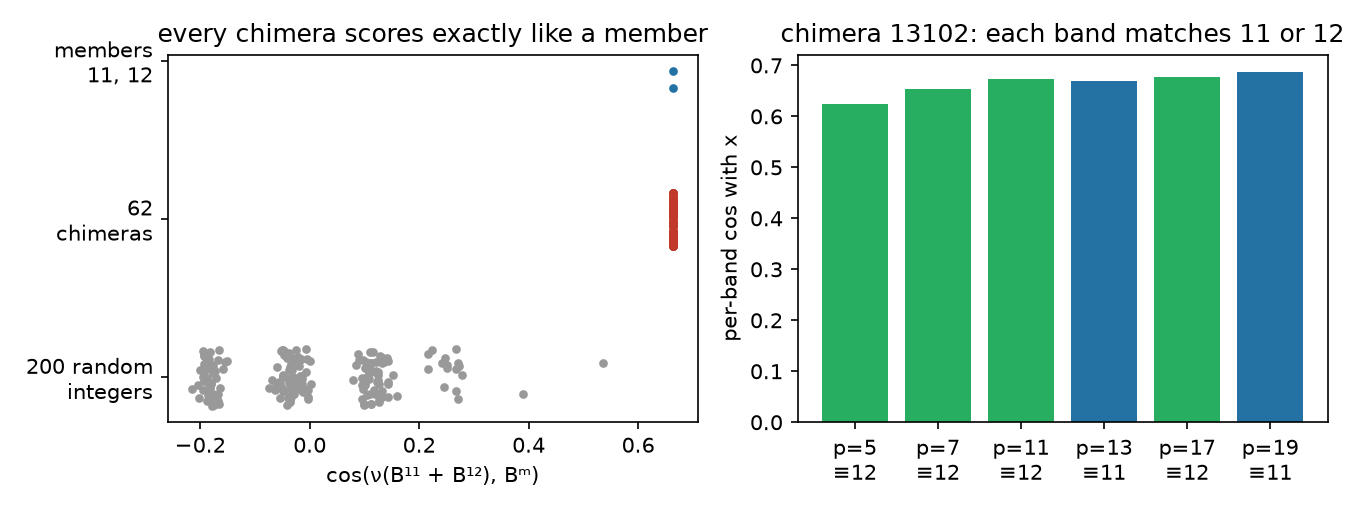
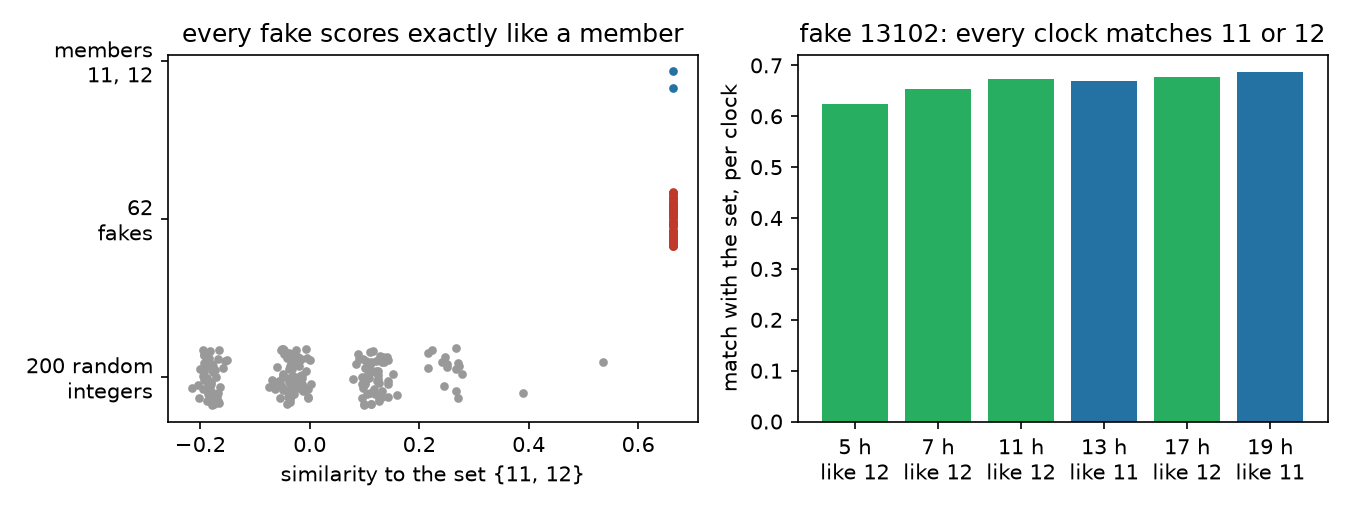
Notebook and paper: plainer concepts, honest Bayes framing
Notebook: a why-care paragraph and three findings up front; binding,
bundling and cleanup explained by analogy before notation; residue
integers explained as clocks, chimeras as fakes stitched from real
members; D, sigma and beta defined; CEK explained; Hopfield summary
figure instead of the 30-panel grid; F3 relabelled.
Both: the Bayesian query is a semantics check (Furlong & Eliasmith;
Dewulf et al. already do inference this way); run-time vs call-time
choice credited to Hussmann (1993).

diff --git a/scripts/paper_f3.py b/scripts/paper_f3.py
@@ -72,15 +72,15 @@ for row, (vals, c, name) in enumerate(((s_rand, "#999999", "200 random integers"
                                        (s_chim, "#c0392b", f"{len(chimeras)} chimeras"),
                                        (s_true, "#2471a3", "members 11, 12"))):
     a1.scatter(vals, row + jit.uniform(-0.18, 0.18, len(vals)), s=10, color=c)
-a1.set_yticks([0, 1, 2], ["200 random\nintegers", f"{len(chimeras)}\nchimeras",
+a1.set_yticks([0, 1, 2], ["200 random\nintegers", f"{len(chimeras)}\nfakes",
                           "members\n11, 12"])
-a1.set_xlabel("cos(ν(B¹¹ + B¹²), Bᵐ)")
-a1.set_title("every chimera scores exactly like a member")
+a1.set_xlabel("similarity to the set {11, 12}")
+a1.set_title("every fake scores exactly like a member")
 a2.bar(range(len(moduli)), band_cos,
        color=["#2471a3" if w == "11" else "#27ae60" for w in which])
-a2.set_xticks(range(len(moduli)), [f"p={p}\n≡{w}" for p, w in zip(moduli, which)])
-a2.set_ylabel("per-band cos with x")
-a2.set_title(f"chimera {ex}: each band matches 11 or 12")
+a2.set_xticks(range(len(moduli)), [f"{p} h\nlike {w}" for p, w in zip(moduli, which)])
+a2.set_ylabel("match with the set, per clock")
+a2.set_title(f"fake {ex}: every clock matches 11 or 12")
 fig.tight_layout()
 fig.savefig("figures/paper-f3-chimeras.png", dpi=150)
 print("wrote figures/paper-f3-chimeras.png", file=sys.stderr)

diff --git a/paper/draft.md b/paper/draft.md
@@ -25,11 +25,12 @@ modes that the algebra hides, and we fix each one.
 
 **Superposition programming.** A value may be a weighted sum of *worlds*,
 and the program computes on all of them at once. Destructors act on every
-world in one memory read, integer arithmetic lifts exactly, and a
-Bayesian-network query comes out at 0.3625 against an exact 0.36255. This
-works only with a memory outside the softmax family (thresholded
-projection). The native semantics are run-time choice, and capacity is
-about D/100 worlds.
+world in one memory read, integer arithmetic lifts exactly, and function
+bodies run once for all worlds. Probabilistic inference with such vectors is
+known; what is new is a general-purpose language whose values may be
+superpositions. It works only with a memory outside the softmax family
+(thresholded projection). The native semantics are Hussmann's run-time
+choice, and capacity is about D/100 worlds.
 
 ## 1. Introduction
 
@@ -360,9 +361,11 @@ superposition has to survive dereferencing: M(Σ wᵢpᵢ) should be
   {4: .5, 6: .3, 10: .2}.
 - **Run-time choice.** A vector carries no world labels, so two occurrences
   of a variable are independent draws. `(let [x (amb 1 2)] (+ x x))` gives
-  {2: ¼, 3: ½, 4: ¼}. Call-time choice would need a tag on every world
-  (√k signal cost, k fixed in advance), so it is explicit, via
-  `for-worlds`.
+  {2: ¼, 3: ½, 4: ¼}. This is *run-time choice* in the sense of Hussmann
+  (1993), as opposed to the *call-time choice* of functional logic
+  languages such as Curry, where a variable keeps one value. Call-time
+  choice would need a tag on every world (√k signal cost, k fixed in
+  advance), so it is explicit, via `for-worlds`.
 
 | demo | result | correct at |
 |---|---|---|
@@ -373,6 +376,13 @@ superposition has to survive dereferencing: M(Σ wᵢpᵢ) should be
 
 *Table 4. Superposition demos, 5 of 5 seeds per point
 (`figures/w-demos.png`, `figures/w-bfs.png`).*
+
+The Bayesian query is a check of the semantics, not a contribution.
+Representing distributions as superposed vectors and conditioning on them
+is established (Furlong & Eliasmith, 2022, 2024; Dewulf et al., 2023), and
+this query enumerates its worlds with `for-worlds`, so it is no faster than
+ordinary code. The contribution is the language: superpositions as ordinary
+values, with destructors, lookup and function bodies lifted over all worlds.
 
 - **Failures throw** a capacity error instead of returning a wrong
   distribution. The measured exceptions: wide-range integers at D = 8192 (3
@@ -438,6 +448,9 @@ non-softmax memory to keep the worlds apart.
 
 ## References
 
+- Dewulf, P., De Baets, B., & Stock, M. (2023). The hyperdimensional
+  transform for distributional modelling, regression and classification.
+  arXiv:2311.08150.
 - Frady, E. P., Kent, S. J., Olshausen, B. A., & Sommer, F. T. (2020).
   Resonator networks, 1: An efficient solution for factoring
   high-dimensional, distributed representations of data structures. *Neural
@@ -445,6 +458,11 @@ non-softmax memory to keep the worlds apart.
 - Furlong, P. M., & Eliasmith, C. (2022). Fractional binding in vector
   symbolic architectures as quasi-probability statements. *Proc. CogSci
   2022*, 259–266.
+- Furlong, P. M., & Eliasmith, C. (2024). Modelling neural probabilistic
+  computation using vector symbolic architectures. *Cognitive
+  Neurodynamics*, 18(6). doi:10.1007/s11571-023-10031-7
+- Hussmann, H. (1993). *Nondeterminism in Algebraic Specifications and
+  Algebraic Programs*. Birkhäuser.
 - Hanley, C., Tomkins-Flanagan, E., & Kelly, M. A. (2025). Hey Pentti, we
   did (more of) it!: A vector-symbolic Lisp with residue arithmetic. *IJCNN
   2025*. arXiv:2511.08767.
